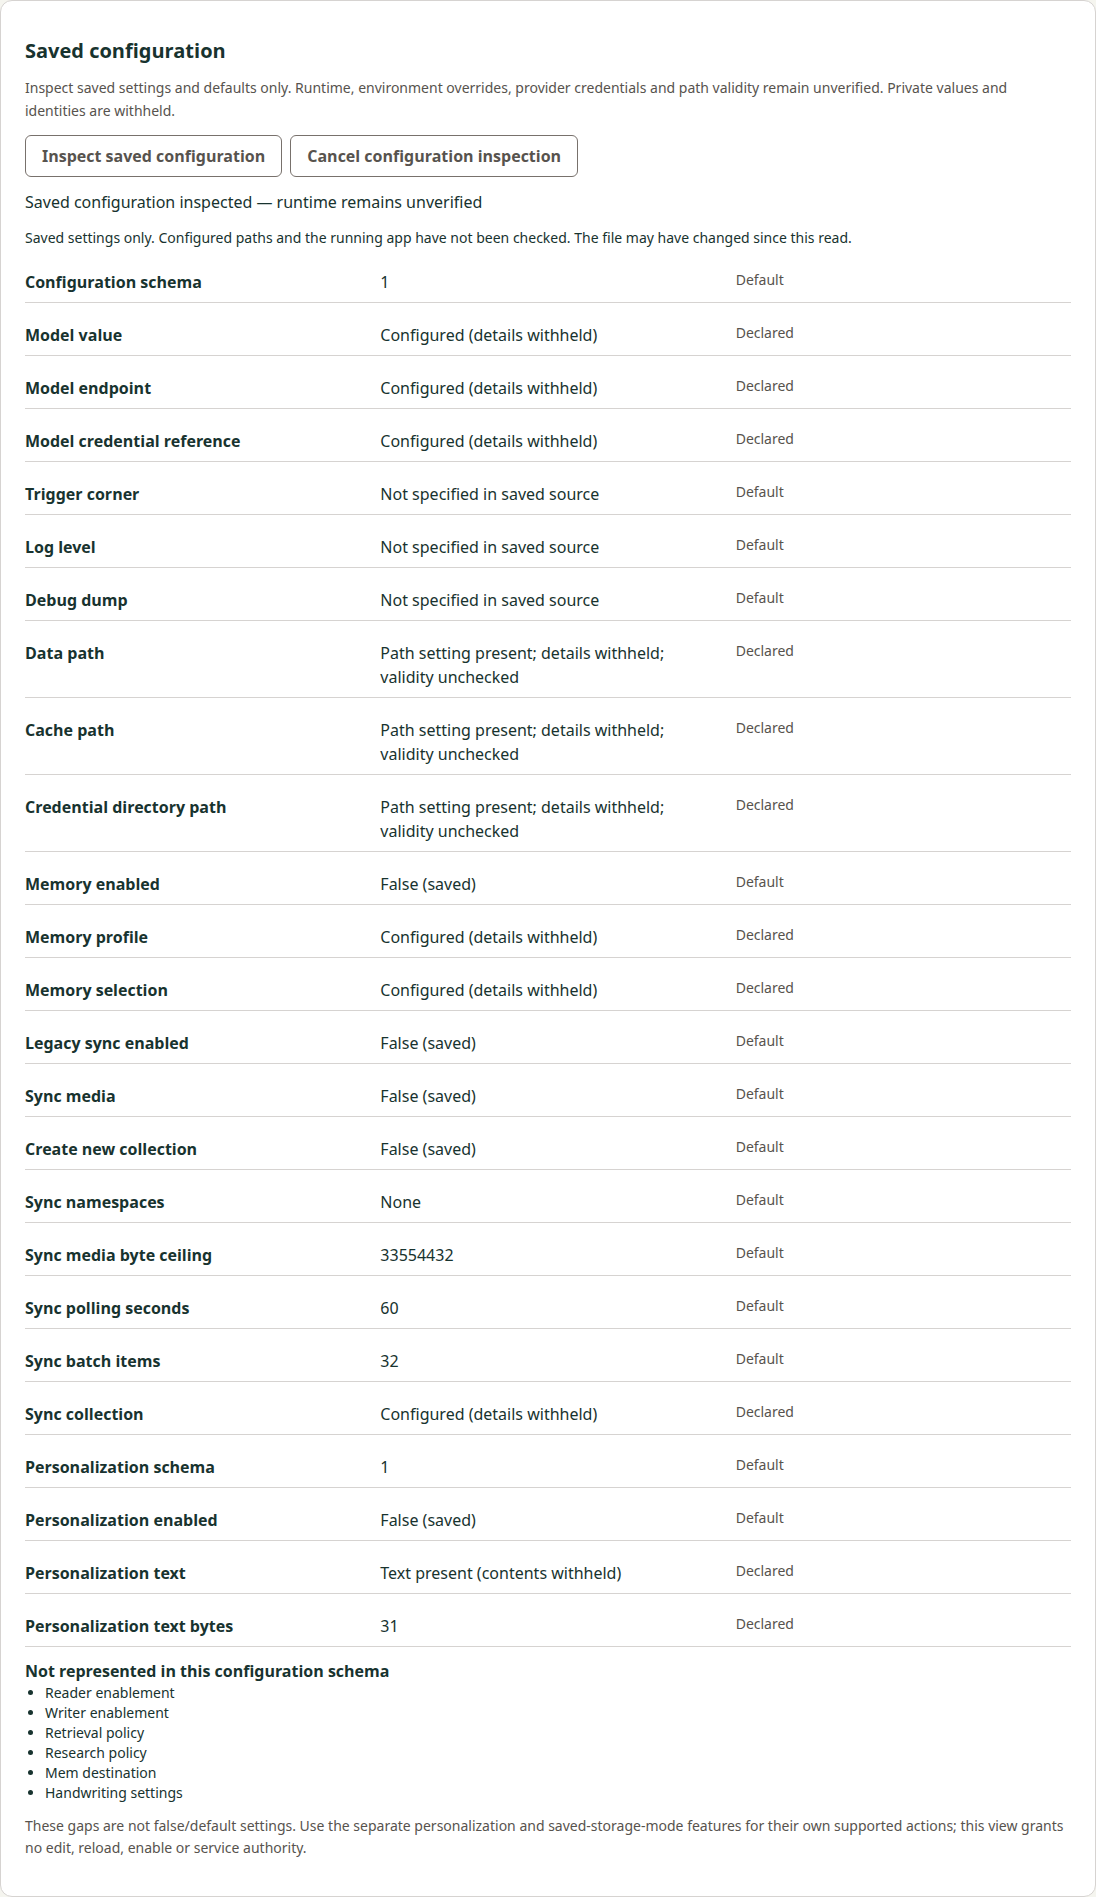
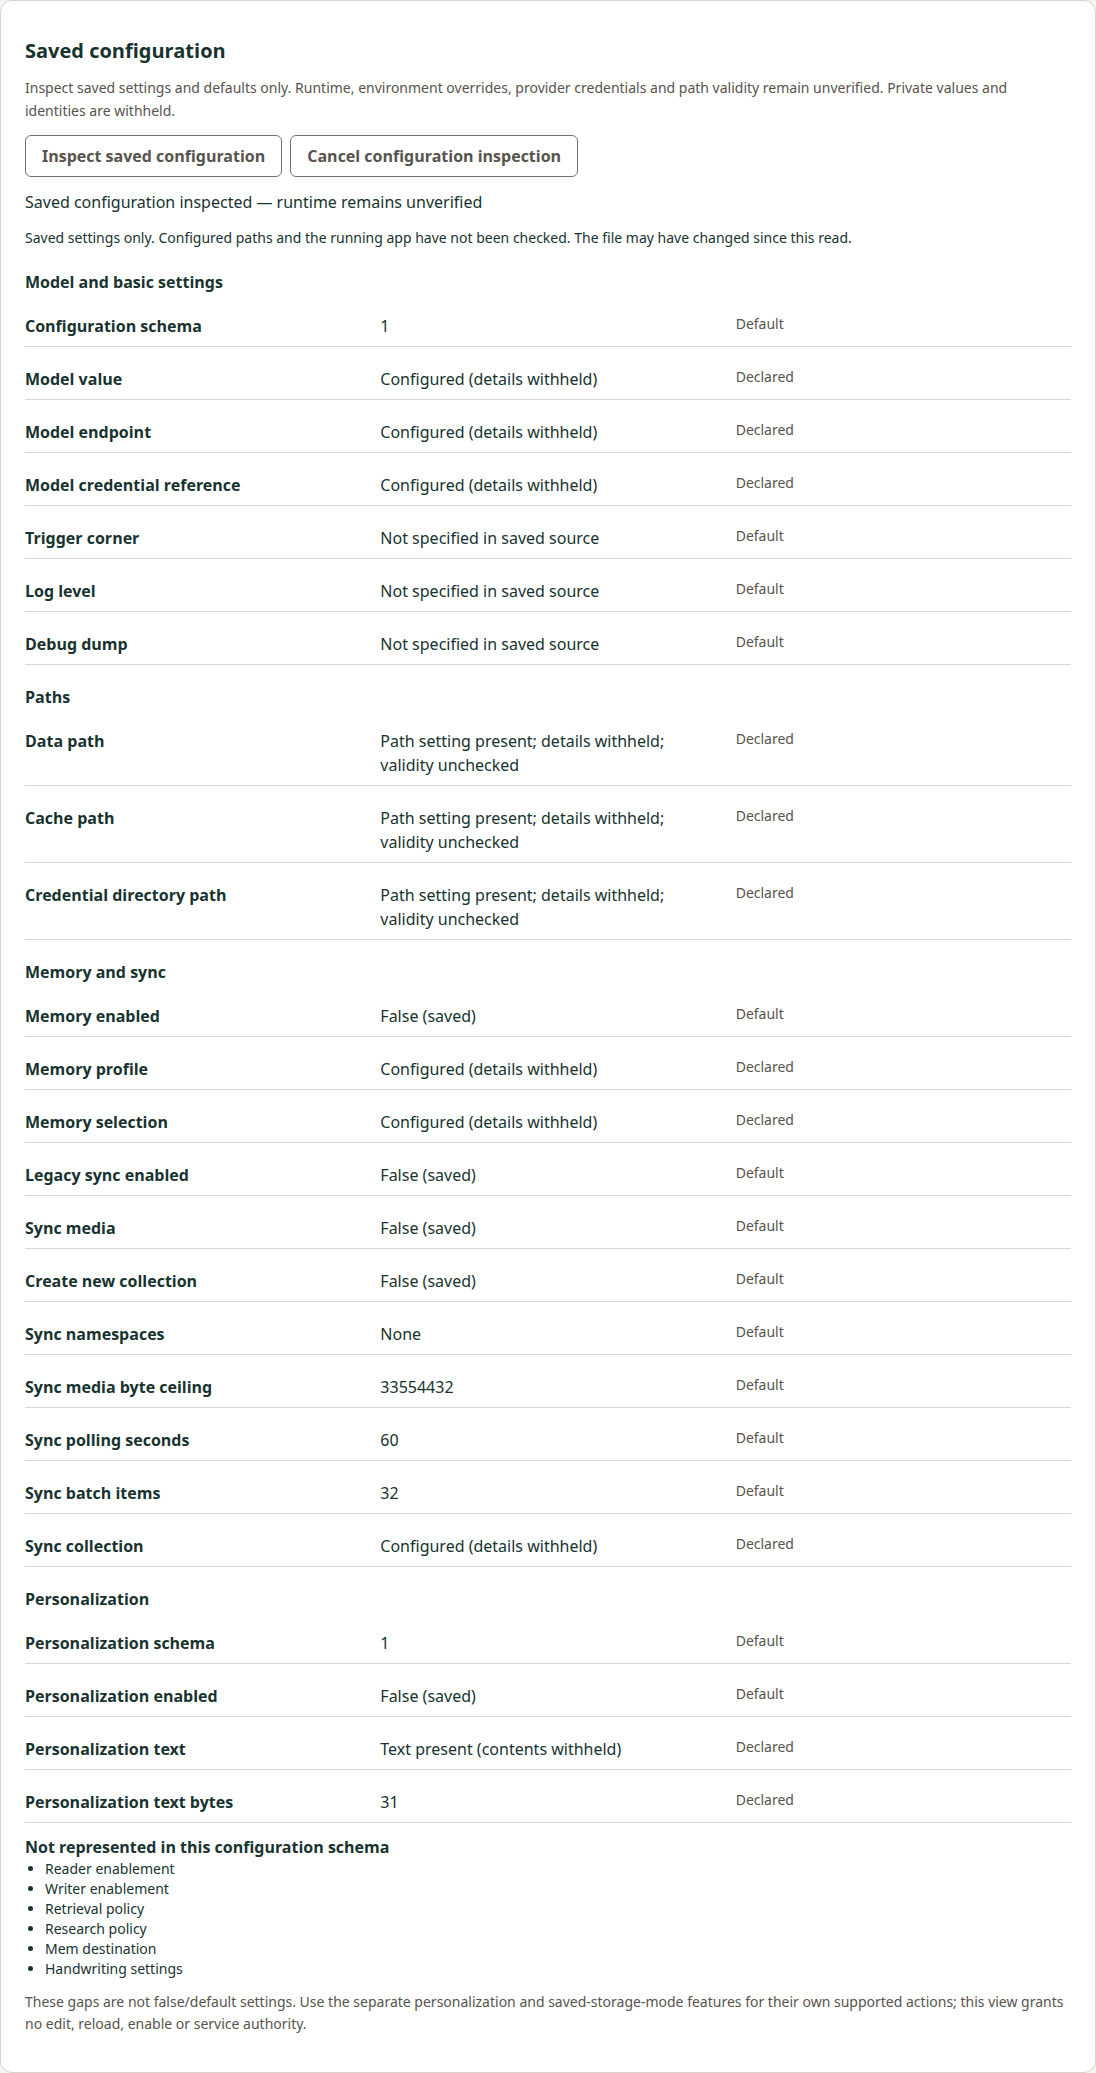
docs(REM-42): retain grouped settings at narrow and wide widths

diff --git a/openspec/changes/manager-saved-configuration-inspection/results.md b/openspec/changes/manager-saved-configuration-inspection/results.md
@@ -1,10 +1,10 @@
 # Consumer implementation evidence
 
-Source basis: actual Manager candidate `bcfc53b` on `feature/rem-42-saved-config-inspection`, accepted consumer precode `5def25f` / independent review5584741044, accepted producer contract `2a320181`, and original native producer corpus. Local execution below uses synthetic transports and identities; no tablet or provider contact occurred.
+Source basis: actual Manager candidate `d186779` (initial implementation `bcfc53b`) on `feature/rem-42-saved-config-inspection`, accepted consumer precode `5def25f` / independent review5584741044, accepted producer contract `2a320181`, and original native producer corpus. Local execution below uses synthetic transports and identities; no tablet or provider contact occurred.
 
 ## Implementation and preservation
 
-The fixed no-remote-stdin transport, strict private report/reduced public view, optional protected browser/Electron method, shared queued controller and explicit 25-row panel are implemented. The private digest is validated then discarded. Origins, nullable versus default values, all consistency rules and six unsupported capabilities are preserved; runtime/path validity remain unverified.
+The fixed no-remote-stdin transport, strict private report/reduced public view, optional protected browser/Electron method, shared queued controller and explicit 25-row panel grouped as Model and basic settings, Paths, Memory and sync, and Personalization are implemented. The private digest is validated then discarded. Origins, nullable versus default values, all consistency rules and six unsupported capabilities are preserved; runtime/path validity remain unverified.
 
 Main-document navigation invalidates the wrapped observer generation; same-path resources/subframes and same-document Electron navigation do not. The modern installed Electron navigation-event shape is used. Before-I/O external forget invalidation retains the raw observer receiver and original unknown-intent bytes. Each host rechecks generation after awaits and before public output. Controller cancellation uses the existing ConnectionController queue.
 
@@ -22,13 +22,19 @@ Capture attribution remains source `4bc7eb0c6bf55af8392ee36a8eb3a7ca400a5389` an
 - Seven Python transport controls pass using an actual local SSH peer with public deterministic fixture identities: fixed command/no remote stdin, inclusive stdout131072/stderr8192 limits, duplicate/UTF8/partial/nonzero/timeout/identity failures and bounded outer response.
 - Lint, development and production builds pass. Ten workflow graph controls pass.
 - Actual development browser and source Electron UI pass with installed auth/arity/frame/coordinator guards. Synthetic lower transport exercises safe rows/origins, private absence, same-ID refresh, main-document versus same-path resource/subframe navigation, cancellation and reload. A focused Electron case temporarily replaces the observer method only to schedule cancellation after its result, independently proving the actual final IPC after-await guard; the original method is restored before normal UI execution.
-- Browser and native Electron captures were visually inspected: all25 rows and six gap labels are readable; no hidden strings/digest are present. Existing public guide includes the fixed manual equivalent.
+- Browser and native Electron captures at actual390px and1280px viewports were visually inspected: all25 rows, four headings and six gap labels are readable; no hidden strings/digest are present. Existing public guide includes the fixed manual equivalent.
+
+Review follow-up: the initial25-row panel was flat, and its390px check retained no narrow image. Independent review requested the already agreed groups and actual narrow visual evidence. The successor changes only app template/computed presentation and the existing UI fixture, which now asserts all four headings and captures both widths inside every ordinary development/source/retained run. No wire/parser/transport/guard or workflow-job changes. Lint and both builds plus the complete browser/source Electron fixture pass after this change; the original176 Node/seven Python/ten graph evidence remains attributed to initial implementation.
 
 Initial Node strip-only loading rejected a TypeScript parameter property; an explicit field/constructor replaced it. Original failed log remains retained. Existing forget navigation fixture now sends actual document Fetch Metadata instead of classifying an arbitrary fetch as navigation. Guards were not weakened to repair fixtures.
 
 ![Development browser synthetic saved view](images/browser-configuration.png)
 
 ![Source Electron synthetic saved view](images/electron-configuration.png)
+
+![Development browser at390px viewport](images/browser-configuration-390.png)
+
+![Source Electron at390px viewport](images/electron-configuration-390.png)
 
 ## Still open
 
